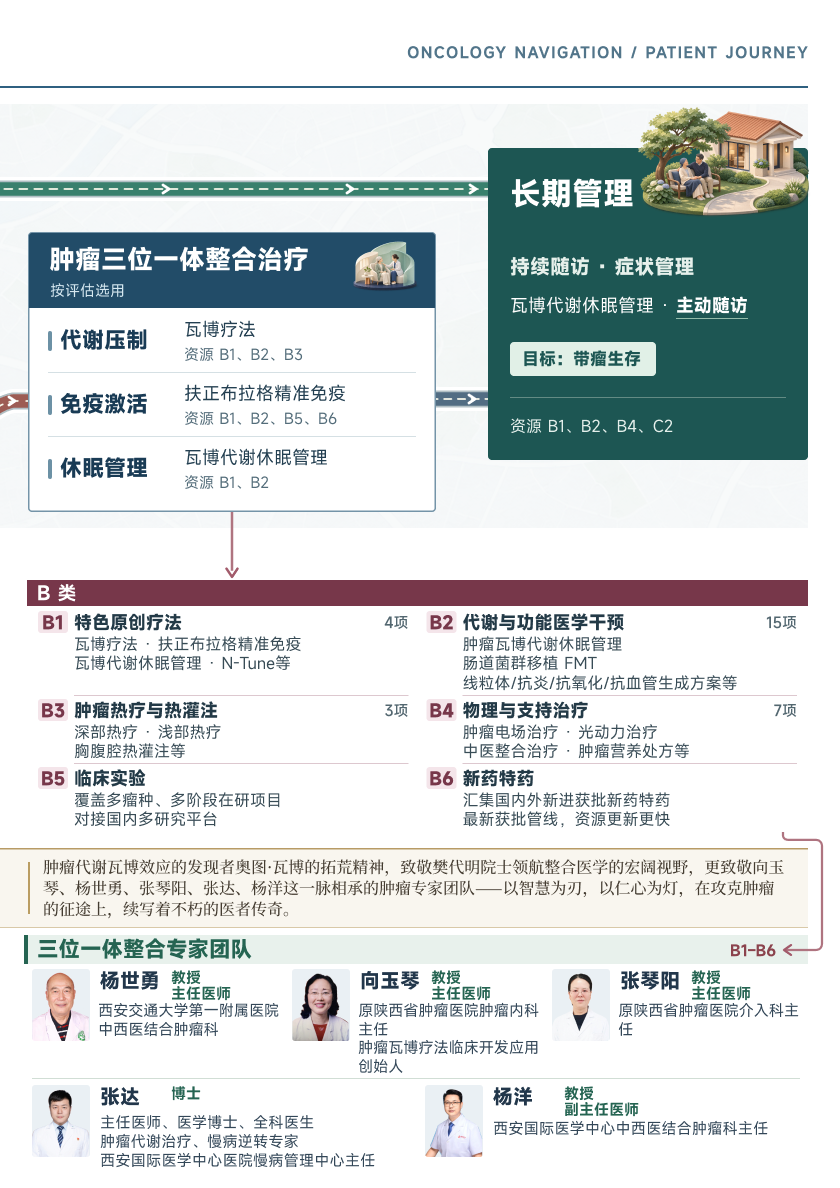
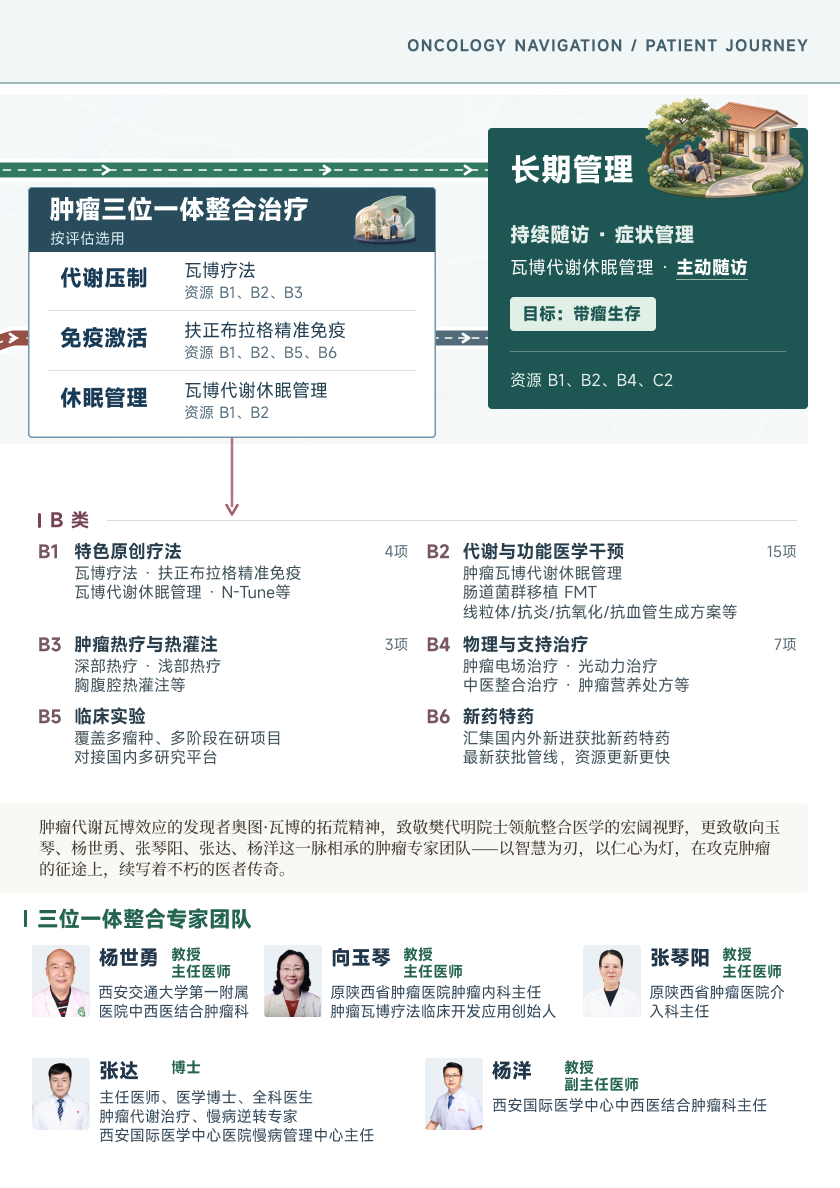
Publish the revised spacing and proportions of the inside map

Changed region(s): [[0.0, 0.0311, 0.9595, 0.9966], [0.9286, 0.5918, 0.9595, 0.6229]]

diff --git a/index.html b/index.html
@@ -1,5 +1,5 @@
 <!doctype html>
-<html lang="zh-CN" data-edition="map-d39771876">
+<html lang="zh-CN" data-edition="map-6a428ab0b">
 <head>
 <meta charset="utf-8">
 <meta name="viewport" content="width=device-width, initial-scale=1, viewport-fit=cover">
@@ -7,11 +7,11 @@
 <meta name="robots" content="noindex,nofollow">
 <title>肿瘤治疗导航图 · 三折页</title>
 <link rel="icon" href="mark.svg" type="image/svg+xml">
-<link rel="preload" as="image" href="assets/front-1.webp?v=map-d39771876">
-<link rel="stylesheet" href="viewer.css?v=map-d39771876">
-<link rel="stylesheet" href="paper.css?v=map-d39771876">
-<script src="physics.js?v=map-d39771876" defer></script>
-<script src="viewer.js?v=map-d39771876" defer></script>
+<link rel="preload" as="image" href="assets/front-1.webp?v=map-6a428ab0b">
+<link rel="stylesheet" href="viewer.css?v=map-6a428ab0b">
+<link rel="stylesheet" href="paper.css?v=map-6a428ab0b">
+<script src="physics.js?v=map-6a428ab0b" defer></script>
+<script src="viewer.js?v=map-6a428ab0b" defer></script>
 </head>
 <body>
 <svg class="symbols" aria-hidden="true" xmlns="http://www.w3.org/2000/svg"><defs>
@@ -28,7 +28,7 @@
 <button type="button" id="read" class="read-link" aria-haspopup="dialog"><svg><use href="#i-book"/></svg><span id="read-label">查看内页</span></button></header>
 <section class="exhibit" aria-label="交互三折页">
 <div id="paper" aria-label="折页模型，左右拖动可展开或收起，轻点折面可放大"></div>
-<noscript><div class="no-js"><img src="assets/front-1.webp?v=map-d39771876" alt="肿瘤治疗导航图封面"><p>请开启 JavaScript 体验折叠，或直接打开图稿。</p><a href="assets/front-2-hd.webp?v=map-d39771876">地图左页</a> · <a href="assets/front-3-hd.webp?v=map-d39771876">地图右页</a> · <a href="assets/back-2-hd.webp?v=map-d39771876">肺癌病例</a> · <a href="assets/back-3-hd.webp?v=map-d39771876">胰腺癌病例</a></div></noscript>
+<noscript><div class="no-js"><img src="assets/front-1.webp?v=map-6a428ab0b" alt="肿瘤治疗导航图封面"><p>请开启 JavaScript 体验折叠，或直接打开图稿。</p><a href="assets/front-2-hd.webp?v=map-6a428ab0b">地图左页</a> · <a href="assets/front-3-hd.webp?v=map-6a428ab0b">地图右页</a> · <a href="assets/back-2-hd.webp?v=map-6a428ab0b">肺癌病例</a> · <a href="assets/back-3-hd.webp?v=map-6a428ab0b">胰腺癌病例</a></div></noscript>
 </section>
 <footer class="control-area">
 <div class="control-tray" aria-label="折页操作"><div class="fold-steps" role="group" aria-label="开合程度">
